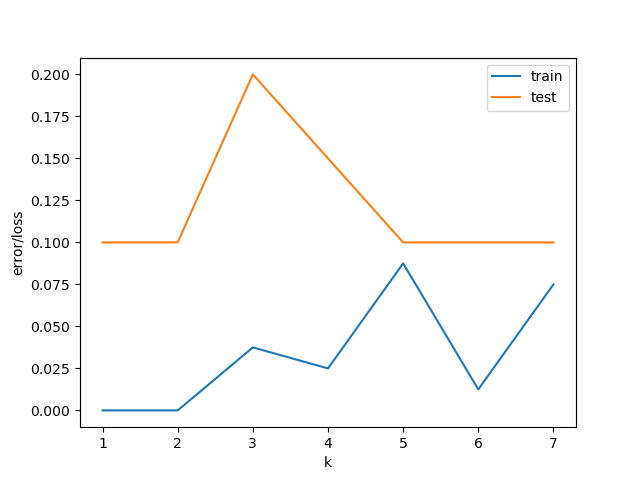
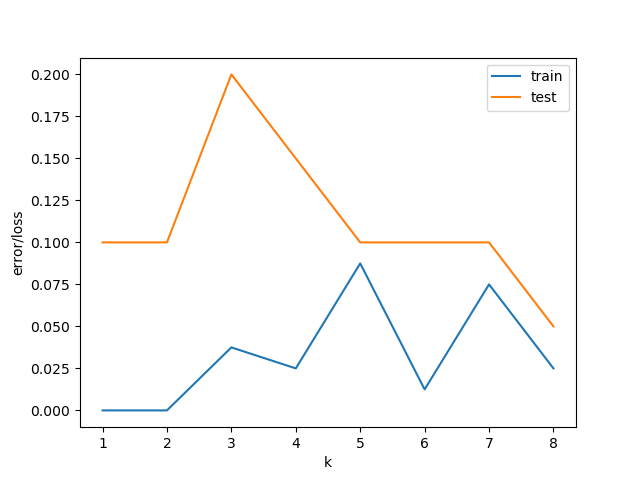
track time

diff --git a/hw2/hw2.py b/hw2/hw2.py
@@ -1,7 +1,7 @@
 import numpy, matplotlib, os.path
 import numpy as np
 import matplotlib.pyplot as plt
-import pdb
+import time
 ########################################
 # FUNCTIONS YOU WILL NEED TO MODIFY:
 #  - KNN.euclid
@@ -441,15 +441,23 @@ def main():
 	print('end test')
 
 	if True:
+		start_time = time.time()
 		run(load_test, "Test")
+		print("elapsed: {}".format(time.time() - start_time))
 		print('-------------HTRU2-------------')
+		start_time = time.time()
 		run(load_HTRU2, "HTRU2")
+		print("elapsed: {}".format(time.time() - start_time))
 		print('-------------HTRU2 end-------------')
 		print('-------------iris-------------')
+		start_time = time.time()
 		run(load_iris, "iris")
+		print("elapsed: {}".format(time.time() - start_time))
 		print('-------------iris end-------------')
 		print('-------------digits-------------')
+		start_time = time.time()
 		run(load_digits, "digits")
+		print("elapsed: {}".format(time.time() - start_time))
 		print('-------------digits end-------------')
 
 	if False:
@@ -471,35 +479,38 @@ def run(load, dataName):
 	testing_man = []
 	testing_mah = []
 	ks = []
-	for max_k in range(1, np.int(np.sqrt(test_data[0].shape[0]))):
+	# for max_k in range(1, np.int(np.sqrt(test_data[0].shape[0]))):
 	# for max_k in range(1, 30):
-		ks.append(max_k)
-		kNN_euc_loss = test_KNN.train_loss(max_k,test_KNN.euclid)
-		kNN_man_loss = test_KNN.train_loss(max_k,test_KNN.manhattan)
-		kNN_mah_loss = test_KNN.train_loss(max_k,test_KNN.mahalanobis)
-		training_euc = kNN_euc_loss
-		training_man = kNN_man_loss
-		training_mah = kNN_mah_loss
-		print("{} Training KNN loss (max k = {}):\n\t Euclid:{},(k={})\n\t Manhattan:{},(k={})\n\t Mahalanobis:{},(k={})".format(dataName, max_k, min(kNN_euc_loss),numpy.argmin(kNN_euc_loss)+1,
-																									min(kNN_man_loss),numpy.argmin(kNN_man_loss)+1,
-																									min(kNN_mah_loss),numpy.argmin(kNN_mah_loss)+1))
-		kNN_euc_loss = test_KNN.test_loss(max_k,test_KNN.euclid,test_data[2],test_data[3])
-		kNN_man_loss = test_KNN.test_loss(max_k,test_KNN.manhattan,test_data[2],test_data[3])
-		kNN_mah_loss = test_KNN.test_loss(max_k,test_KNN.mahalanobis,test_data[2],test_data[3])
-		testing_euc = kNN_euc_loss
-		testing_man = kNN_man_loss
-		testing_mah = kNN_mah_loss
-		print("{} Testing KNN loss (max k = {}):\n\t Euclid:{},(k={})\n\t Manhattan:{},(k={})\n\t Mahalanobis:{},(k={})".format(dataName, max_k, min(kNN_euc_loss),numpy.argmin(kNN_euc_loss)+1,
-																									min(kNN_man_loss),numpy.argmin(kNN_man_loss)+1,
-																									min(kNN_mah_loss),numpy.argmin(kNN_mah_loss)+1))
-		#save arrays
-		np.savetxt("arrays/{}_training_euc.csv".format(dataName), training_euc, delimiter=',')
-		np.savetxt("arrays/{}_training_man.csv".format(dataName), training_man, delimiter=',')
-		np.savetxt("arrays/{}_training_mah.csv".format(dataName), training_mah, delimiter=',')
-		np.savetxt("arrays/{}_testing_euc.csv".format(dataName), testing_euc, delimiter=',')
-		np.savetxt("arrays/{}_testing_man.csv".format(dataName), testing_man, delimiter=',')
-		np.savetxt("arrays/{}_testing_mah.csv".format(dataName), testing_mah, delimiter=',')
+	max_k = np.int(np.sqrt(test_data[0].shape[0]))
+	# ks.append(max_k)
+	ks = np.linspace(1, max_k, max_k)
+	kNN_euc_loss = test_KNN.train_loss(max_k,test_KNN.euclid)
+	kNN_man_loss = test_KNN.train_loss(max_k,test_KNN.manhattan)
+	kNN_mah_loss = test_KNN.train_loss(max_k,test_KNN.mahalanobis)
+	training_euc = kNN_euc_loss
+	training_man = kNN_man_loss
+	training_mah = kNN_mah_loss
+	print("{} Training KNN loss (max k = {}):\n\t Euclid:{},(k={})\n\t Manhattan:{},(k={})\n\t Mahalanobis:{},(k={})".format(dataName, max_k, min(kNN_euc_loss),numpy.argmin(kNN_euc_loss)+1,
+																								min(kNN_man_loss),numpy.argmin(kNN_man_loss)+1,
+																								min(kNN_mah_loss),numpy.argmin(kNN_mah_loss)+1))
+	kNN_euc_loss = test_KNN.test_loss(max_k,test_KNN.euclid,test_data[2],test_data[3])
+	kNN_man_loss = test_KNN.test_loss(max_k,test_KNN.manhattan,test_data[2],test_data[3])
+	kNN_mah_loss = test_KNN.test_loss(max_k,test_KNN.mahalanobis,test_data[2],test_data[3])
+	testing_euc = kNN_euc_loss
+	testing_man = kNN_man_loss
+	testing_mah = kNN_mah_loss
+	print("{} Testing KNN loss (max k = {}):\n\t Euclid:{},(k={})\n\t Manhattan:{},(k={})\n\t Mahalanobis:{},(k={})".format(dataName, max_k, min(kNN_euc_loss),numpy.argmin(kNN_euc_loss)+1,
+																								min(kNN_man_loss),numpy.argmin(kNN_man_loss)+1,
+																								min(kNN_mah_loss),numpy.argmin(kNN_mah_loss)+1))
+	#save arrays
+	np.savetxt("arrays/{}_training_euc.csv".format(dataName), training_euc, delimiter=',')
+	np.savetxt("arrays/{}_training_man.csv".format(dataName), training_man, delimiter=',')
+	np.savetxt("arrays/{}_training_mah.csv".format(dataName), training_mah, delimiter=',')
+	np.savetxt("arrays/{}_testing_euc.csv".format(dataName), testing_euc, delimiter=',')
+	np.savetxt("arrays/{}_testing_man.csv".format(dataName), testing_man, delimiter=',')
+	np.savetxt("arrays/{}_testing_mah.csv".format(dataName), testing_mah, delimiter=',')
 	#
+
 	plt.plot(ks, training_euc, label='train')
 	plt.plot(ks, testing_euc, label='test')
 	plt.xlabel('k')
